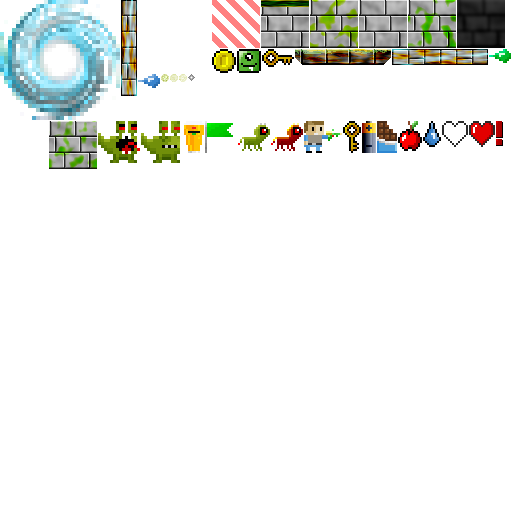
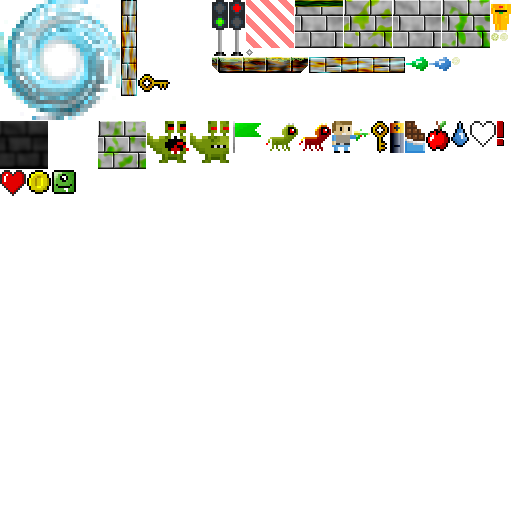
Added traffic lights.

Changed region(s): [[0.0, 0.2188, 1.0, 0.375], [0.4062, 0.0, 1.0, 0.1562], [0.25, 0.125, 0.375, 0.1875]]

diff --git a/src/entities/trafficLight.c b/src/entities/trafficLight.c
@@ -1,0 +1,148 @@
+/*
+Copyright (C) 2019 Parallel Realities
+
+This program is free software; you can redistribute it and/or
+modify it under the terms of the GNU General Public License
+as published by the Free Software Foundation; either version 2
+of the License, or (at your option) any later version.
+
+This program is distributed in the hope that it will be useful,
+but WITHOUT ANY WARRANTY; without even the implied warranty of
+MERCHANTABILITY or FITNESS FOR A PARTICULAR PURPOSE.
+
+See the GNU General Public License for more details.
+
+You should have received a copy of the GNU General Public License
+along with this program; if not, write to the Free Software
+Foundation, Inc., 59 Temple Place - Suite 330, Boston, MA  02111-1307, USA.
+
+*/
+
+#include "trafficLight.h"
+
+static void draw(void);
+static void toggle(void);
+static void touch(Entity *other);
+static void load(cJSON *root);
+static void save(cJSON *root);
+
+static AtlasImage *goTexture = NULL;
+static AtlasImage *stopTexture = NULL;
+static AtlasImage *sparkleTexture = NULL;
+
+void initTrafficLight(Entity *e)
+{
+	TrafficLight *t;
+	
+	if (goTexture == NULL)
+	{
+		goTexture = getAtlasImage("gfx/entities/trafficLightGo.png", 1);
+		stopTexture = getAtlasImage("gfx/entities/trafficLightStop.png", 1);
+		sparkleTexture = getAtlasImage("gfx/particles/light.png", 1);
+	}
+	
+	t = malloc(sizeof(TrafficLight));
+	memset(t, 0, sizeof(TrafficLight));
+	
+	e->typeName = "trafficLight";
+	e->type = ET_SWITCH;
+	e->data = t;
+	e->atlasImage = stopTexture;
+	e->w = e->atlasImage->rect.w;
+	e->h = e->atlasImage->rect.h;
+	e->draw = draw;
+	e->touch = touch;
+	e->flags = EF_NO_ENT_CLIP+EF_STATIC;
+	
+	e->load = load;
+	e->save = save;
+}
+
+static void draw(void)
+{
+	TrafficLight *t;
+	int x, y;
+	
+	t = (TrafficLight*)self->data;
+	
+	blitAtlasImage(self->atlasImage, self->x - world.camera.x, self->y - world.camera.y, 0, self->facing == FACING_LEFT ? SDL_FLIP_HORIZONTAL : SDL_FLIP_NONE);
+	
+	x = self->x + (self->w / 2) - world.camera.x;
+	y = self->y + (self->h / 2) - world.camera.y;
+	
+	if (t->on)
+	{
+		SDL_SetTextureColorMod(sparkleTexture->texture, 255, 128, 64);
+	}
+	else
+	{
+		SDL_SetTextureColorMod(sparkleTexture->texture, 255, 128, 64);
+		y -= 16;
+	}
+	
+	SDL_SetTextureAlphaMod(sparkleTexture->texture, 64);
+	
+	blitAtlasImage(sparkleTexture, x, y, 1, SDL_FLIP_NONE);
+	
+	SDL_SetTextureColorMod(sparkleTexture->texture, 255, 255, 255);
+	SDL_SetTextureAlphaMod(sparkleTexture->texture, 255);
+}
+
+static void touch(Entity *other)
+{
+	Walter *w;
+	
+	if (other == world.player)
+	{
+		w = (Walter*)other->data;
+		
+		if (w->action)
+		{
+			w->action = 0;
+			
+			toggle();
+		}
+	}
+}
+
+static void toggle(void)
+{
+	TrafficLight *t;
+	
+	t = (TrafficLight*)self->data;
+	
+	t->on = !t->on;
+	
+	activeEntities(t->targetName, t->on);
+	
+	if (t->on)
+	{
+		self->atlasImage = goTexture;
+	}
+	else
+	{
+		self->atlasImage = stopTexture;
+	}
+	
+	playPositionalSound(SND_TRAFFIC_LIGHT, CH_SWITCH, self->x, self->y, world.player->x, world.player->y);
+}
+
+static void load(cJSON *root)
+{
+	TrafficLight *t;
+	
+	t = (TrafficLight*)self->data;
+	
+	t->on = cJSON_GetObjectItem(root, "on")->valueint;
+	STRNCPY(t->targetName, cJSON_GetObjectItem(root, "targetName")->valuestring, MAX_NAME_LENGTH);
+}
+
+static void save(cJSON *root)
+{
+	TrafficLight *t;
+	
+	t = (TrafficLight*)self->data;
+	
+	cJSON_AddStringToObject(root, "targetName", t->targetName);
+	cJSON_AddNumberToObject(root, "on", t->on);
+}

diff --git a/src/entities/trafficLight.h b/src/entities/trafficLight.h
@@ -21,18 +21,12 @@ Foundation, Inc., 59 Temple Place - Suite 330, Boston, MA  02111-1307, USA.
 #include "../common.h"
 #include "../json/cJSON.h"
 
-extern void initCoin(Entity *e);
-extern void initDoor(Entity *e);
-extern void initHorizontalDoor(Entity *e);
-extern void initGreenBugEyedMonster(Entity *e);
-extern void initGreenHorse(Entity *e);
-extern void initKey(Entity *e);
-extern void initPlayer(Entity *e);
-extern void initStartPoint(Entity *e);
-extern void initTransferCube(Entity *e);
-extern void initRedHorse(Entity *e);
-extern void initPlatform(Entity *e);
-extern void initTrafficLight(Entity *e);
+extern void activeEntities(char *targetName, int activate);
+extern AtlasImage *getAtlasImage(char *filename, int required);
+extern void blitAtlasImage(AtlasImage *atlasImage, int x, int y, int center, SDL_RendererFlip flip);
+extern int isValidCloneFrame(Walter *w);
+extern void playPositionalSound(int snd, int ch, int srcX, int srcY, int destX, int destY);
 
 extern Entity *self;
-extern Stage *stage;
+extern Stage stage;
+extern World world;

diff --git a/src/world/entityFactory.c b/src/world/entityFactory.c
@@ -39,9 +39,8 @@ void initEntityFactory(void)
 	addInitFunc("platform", initPlatform);
 	addInitFunc("redHorse", initRedHorse);
 	addInitFunc("startPoint", initStartPoint);
+	addInitFunc("trafficLight", initTrafficLight);
 	addInitFunc("transferCube", initTransferCube);
-	
-	
 	
 	entityId = 0;
 }

diff --git a/src/structs.h b/src/structs.h
@@ -152,6 +152,11 @@ typedef struct {
 	float dy;
 } Platform;
 
+typedef struct {
+	int on;
+	char targetName[MAX_NAME_LENGTH];
+} TrafficLight;
+
 struct Particle {
 	float x;
 	float y;

diff --git a/src/defs.h b/src/defs.h
@@ -137,6 +137,7 @@ enum
 	SND_KEY,
 	SND_DEATH,
 	SND_DOOR,
+	SND_TRAFFIC_LIGHT,
 	SND_MAX
 };
 
@@ -147,6 +148,7 @@ enum
 	CH_HIT,
 	CH_ITEM,
 	CH_STRUCTURE,
+	CH_SWITCH,
 	CH_MAX
 };
 
